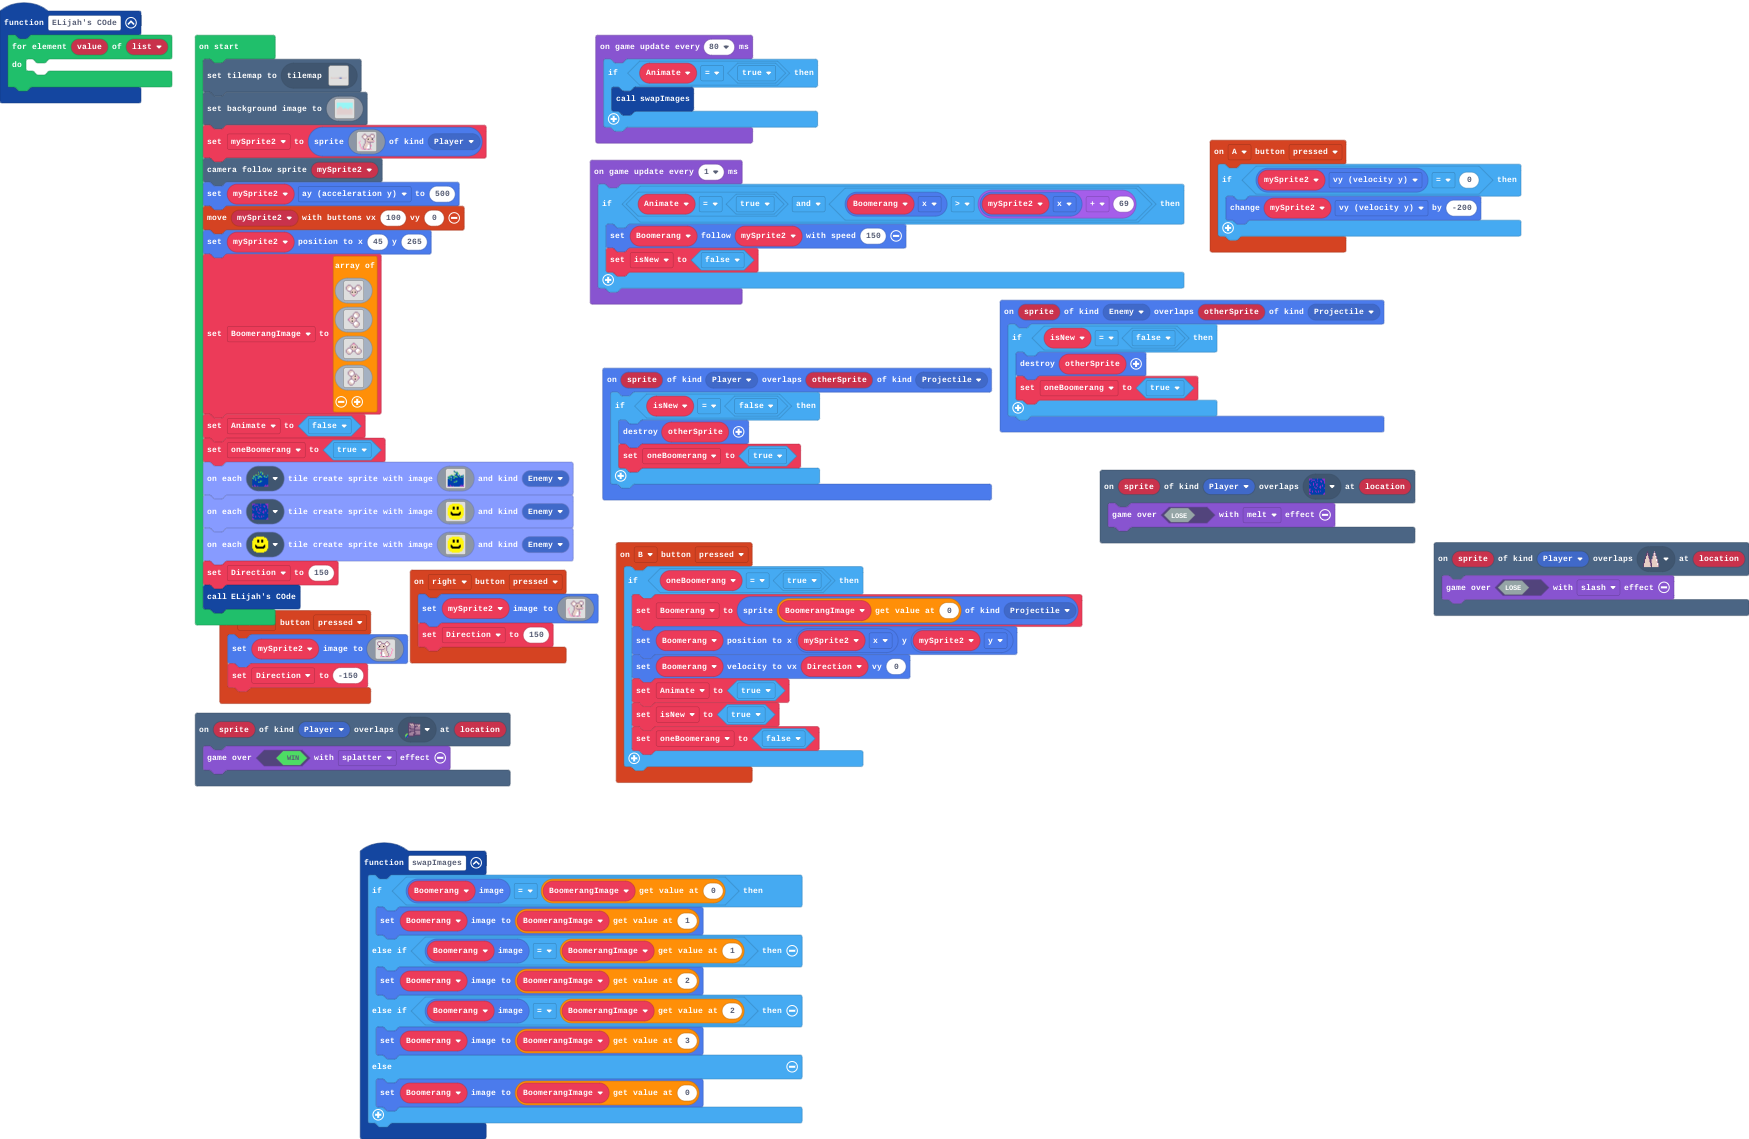
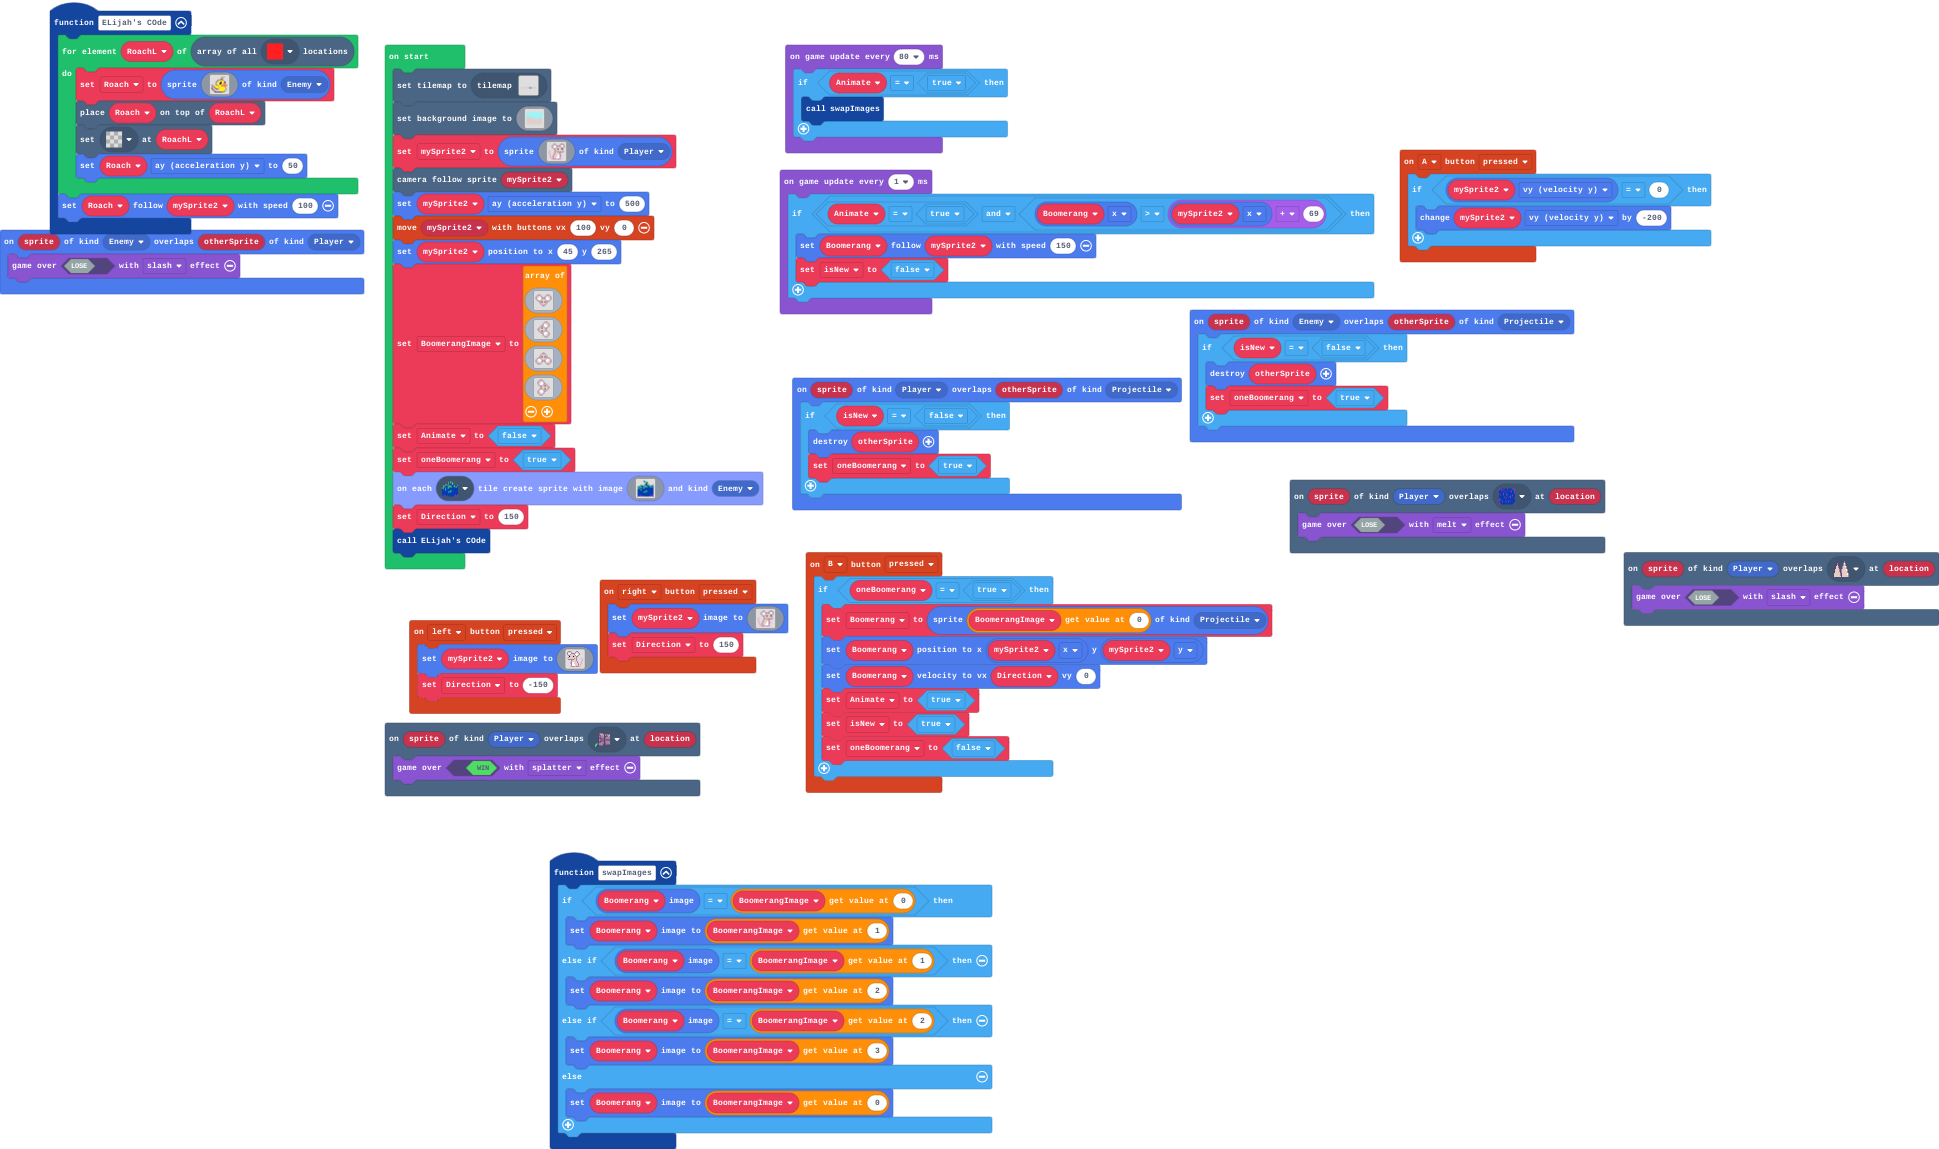
Update main.blocks, main.ts, tilemap.g.jres, tilemap.g.ts

diff --git a/tilemap.g.ts b/tilemap.g.ts
@@ -12,11 +12,17 @@ namespace myTiles {
     export const tile4 = image.ofBuffer(hex``);
     //% fixedInstance jres blockIdentity=images._tile
     export const tile5 = image.ofBuffer(hex``);
+    //% fixedInstance jres blockIdentity=images._tile
+    export const tile6 = image.ofBuffer(hex``);
+    //% fixedInstance jres blockIdentity=images._tile
+    export const tile7 = image.ofBuffer(hex``);
+    //% fixedInstance jres blockIdentity=images._tile
+    export const tile8 = image.ofBuffer(hex``);
 
     helpers._registerFactory("tilemap", function(name: string) {
         switch(helpers.stringTrim(name)) {
             case "level1":
[2 lines of base64/hex data omitted]
 ..................................................
 ..................................................
 ..................................................
@@ -37,7 +43,7 @@ namespace myTiles {
 2222222222222222222222222222......2222222222222222
 2222222222222222222222222222......2222222222222222
 2222222222222222222222222222......2222222222222222
-`, [myTiles.transparency16,sprites.dungeon.floorLight0,sprites.dungeon.floorLight1,myTiles.tile1,sprites.dungeon.floorLight4,myTiles.tile2,myTiles.tile3,sprites.dungeon.floorMixed,sprites.dungeon.floorDark0,sprites.dungeon.floorLightMoss,sprites.dungeon.floorDark1,sprites.dungeon.floorDark4,myTiles.tile4,myTiles.tile5], TileScale.Sixteen);
+`, [myTiles.transparency16,sprites.dungeon.floorLight0,sprites.dungeon.floorLight1,myTiles.tile1,sprites.dungeon.floorLight4,myTiles.tile2,myTiles.tile3,sprites.dungeon.floorMixed,sprites.dungeon.floorDark0,sprites.dungeon.floorLightMoss,sprites.dungeon.floorDark1,sprites.dungeon.floorDark4,myTiles.tile4,myTiles.tile6], TileScale.Sixteen);
         }
         return null;
     })
@@ -55,6 +61,12 @@ namespace myTiles {
             case "tile4":return tile4;
             case "Dave":
             case "tile5":return tile5;
+            case "Roach":
+            case "tile6":return tile6;
+            case "Snake":
+            case "tile7":return tile7;
+            case "Possum":
+            case "tile8":return tile8;
         }
         return null;
     })

diff --git a/main.ts b/main.ts
@@ -50,15 +50,39 @@ sprites.onOverlap(SpriteKind.Player, SpriteKind.Projectile, function (sprite, ot
         oneBoomerang = true
     }
 })
+sprites.onOverlap(SpriteKind.Enemy, SpriteKind.Player, function (sprite, otherSprite) {
+    game.over(false, effects.slash)
+})
 scene.onOverlapTile(SpriteKind.Player, assets.tile`Spikes`, function (sprite, location) {
     game.over(false, effects.slash)
 })
 function ELijahs_COde () {
-    let list: number[] = []
-    for (let value of list) {
-    	
+    for (let RoachL of tiles.getTilesByType(assets.tile`Roach`)) {
+        Roach = sprites.create(img`
+            . . . . . . . . . . b 5 b . . . 
+            . . . . . . . . . b 5 b . . . . 
+            . . . . . . . . . b c . . . . . 
+            . . . . . . b b b b b b . . . . 
+            . . . . . b b 5 5 5 5 5 b . . . 
+            . . . . b b 5 d 1 f 5 5 d f . . 
+            . . . . b 5 5 1 f f 5 d 4 c . . 
+            . . . . b 5 5 d f b d d 4 4 . . 
+            b d d d b b d 5 5 5 4 4 4 4 4 b 
+            b b d 5 5 5 b 5 5 4 4 4 4 4 b . 
+            b d c 5 5 5 5 d 5 5 5 5 5 b . . 
+            c d d c d 5 5 b 5 5 5 5 5 5 b . 
+            c b d d c c b 5 5 5 5 5 5 5 b . 
+            . c d d d d d d 5 5 5 5 5 d b . 
+            . . c b d d d d d 5 5 5 b b . . 
+            . . . c c c c c c c c b b . . . 
+            `, SpriteKind.Enemy)
+        tiles.placeOnTile(Roach, RoachL)
+        tiles.setTileAt(RoachL, assets.tile`transparency16`)
+        Roach.ay = 50
     }
+    Roach.follow(mySprite2, 100)
 }
+let Roach: Sprite = null
 let isNew = false
 let Boomerang: Sprite = null
 let Direction = 0
@@ -203,8 +227,6 @@ assets.image`Ratarang4`
 Animate = false
 oneBoomerang = true
 tileUtil.createSpritesOnTiles(assets.tile`Sewage`, assets.image`Sewage Sprite`, SpriteKind.Enemy)
-tileUtil.createSpritesOnTiles(assets.tile`BadWater`, assets.image`Davest`, SpriteKind.Enemy)
-tileUtil.createSpritesOnTiles(assets.tile`Dave`, assets.image`Davest`, SpriteKind.Enemy)
 Direction = 150
 ELijahs_COde()
 game.onUpdateInterval(80, function () {
